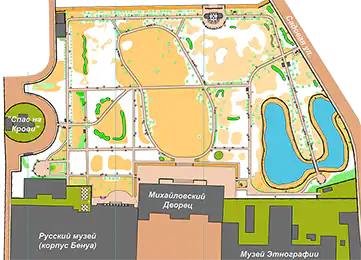
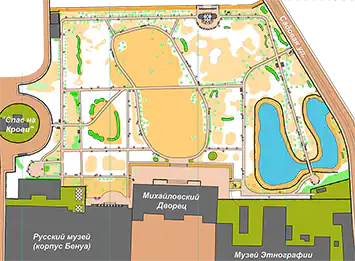
Обновил карту Михайловского сада от Александра ШИриняна.

diff --git a/js/maps-parks.js b/js/maps-parks.js
@@ -1710,7 +1710,7 @@ let parkMaps = [
         url: './maps/parks/mikhailovsky_garden_2026.webp',
         link: './original_maps/parks/mikhailovsky_garden_2026_omaps.webp',
         info: 'Карта выполнена полностью камерально, без выхода на местность. Для полноценного ориентирования она требует корректировки, но вполне применима для прогулок, фото-квестов или, например, Трейл-О.',
-        bounds: [[59.9415353, 30.3290998], [59.9406969, 30.3375329], [59.9384828, 30.3278015]],
+        bounds: [[59.9415675, 30.3292179], [59.9407131, 30.3375220], [59.9385580, 30.3279197]],
         author: 'SHRNN',
         owner: 'SHRNN',
         type: ['PARK'],

diff --git a/js/calendar-common-2026.js b/js/calendar-common-2026.js
@@ -254,7 +254,8 @@ let commonEvents2026 = [
             'https://vkvideo.ru/video-227779225_456239060',
             'https://vk.com/video-93257360_456239322',
             'http://northernwind.spb.ru/videosplit/2026/kkp/d1',
-            'https://www.youtube.com/watch?v=4DXp9qRaZVM'
+            'https://www.youtube.com/watch?v=4DXp9qRaZVM',
+            'https://www.youtube.com/watch?v=rdrdKWen4Dw'
         ],
         type: 'ORIENT',
         fmt: 'классика',
